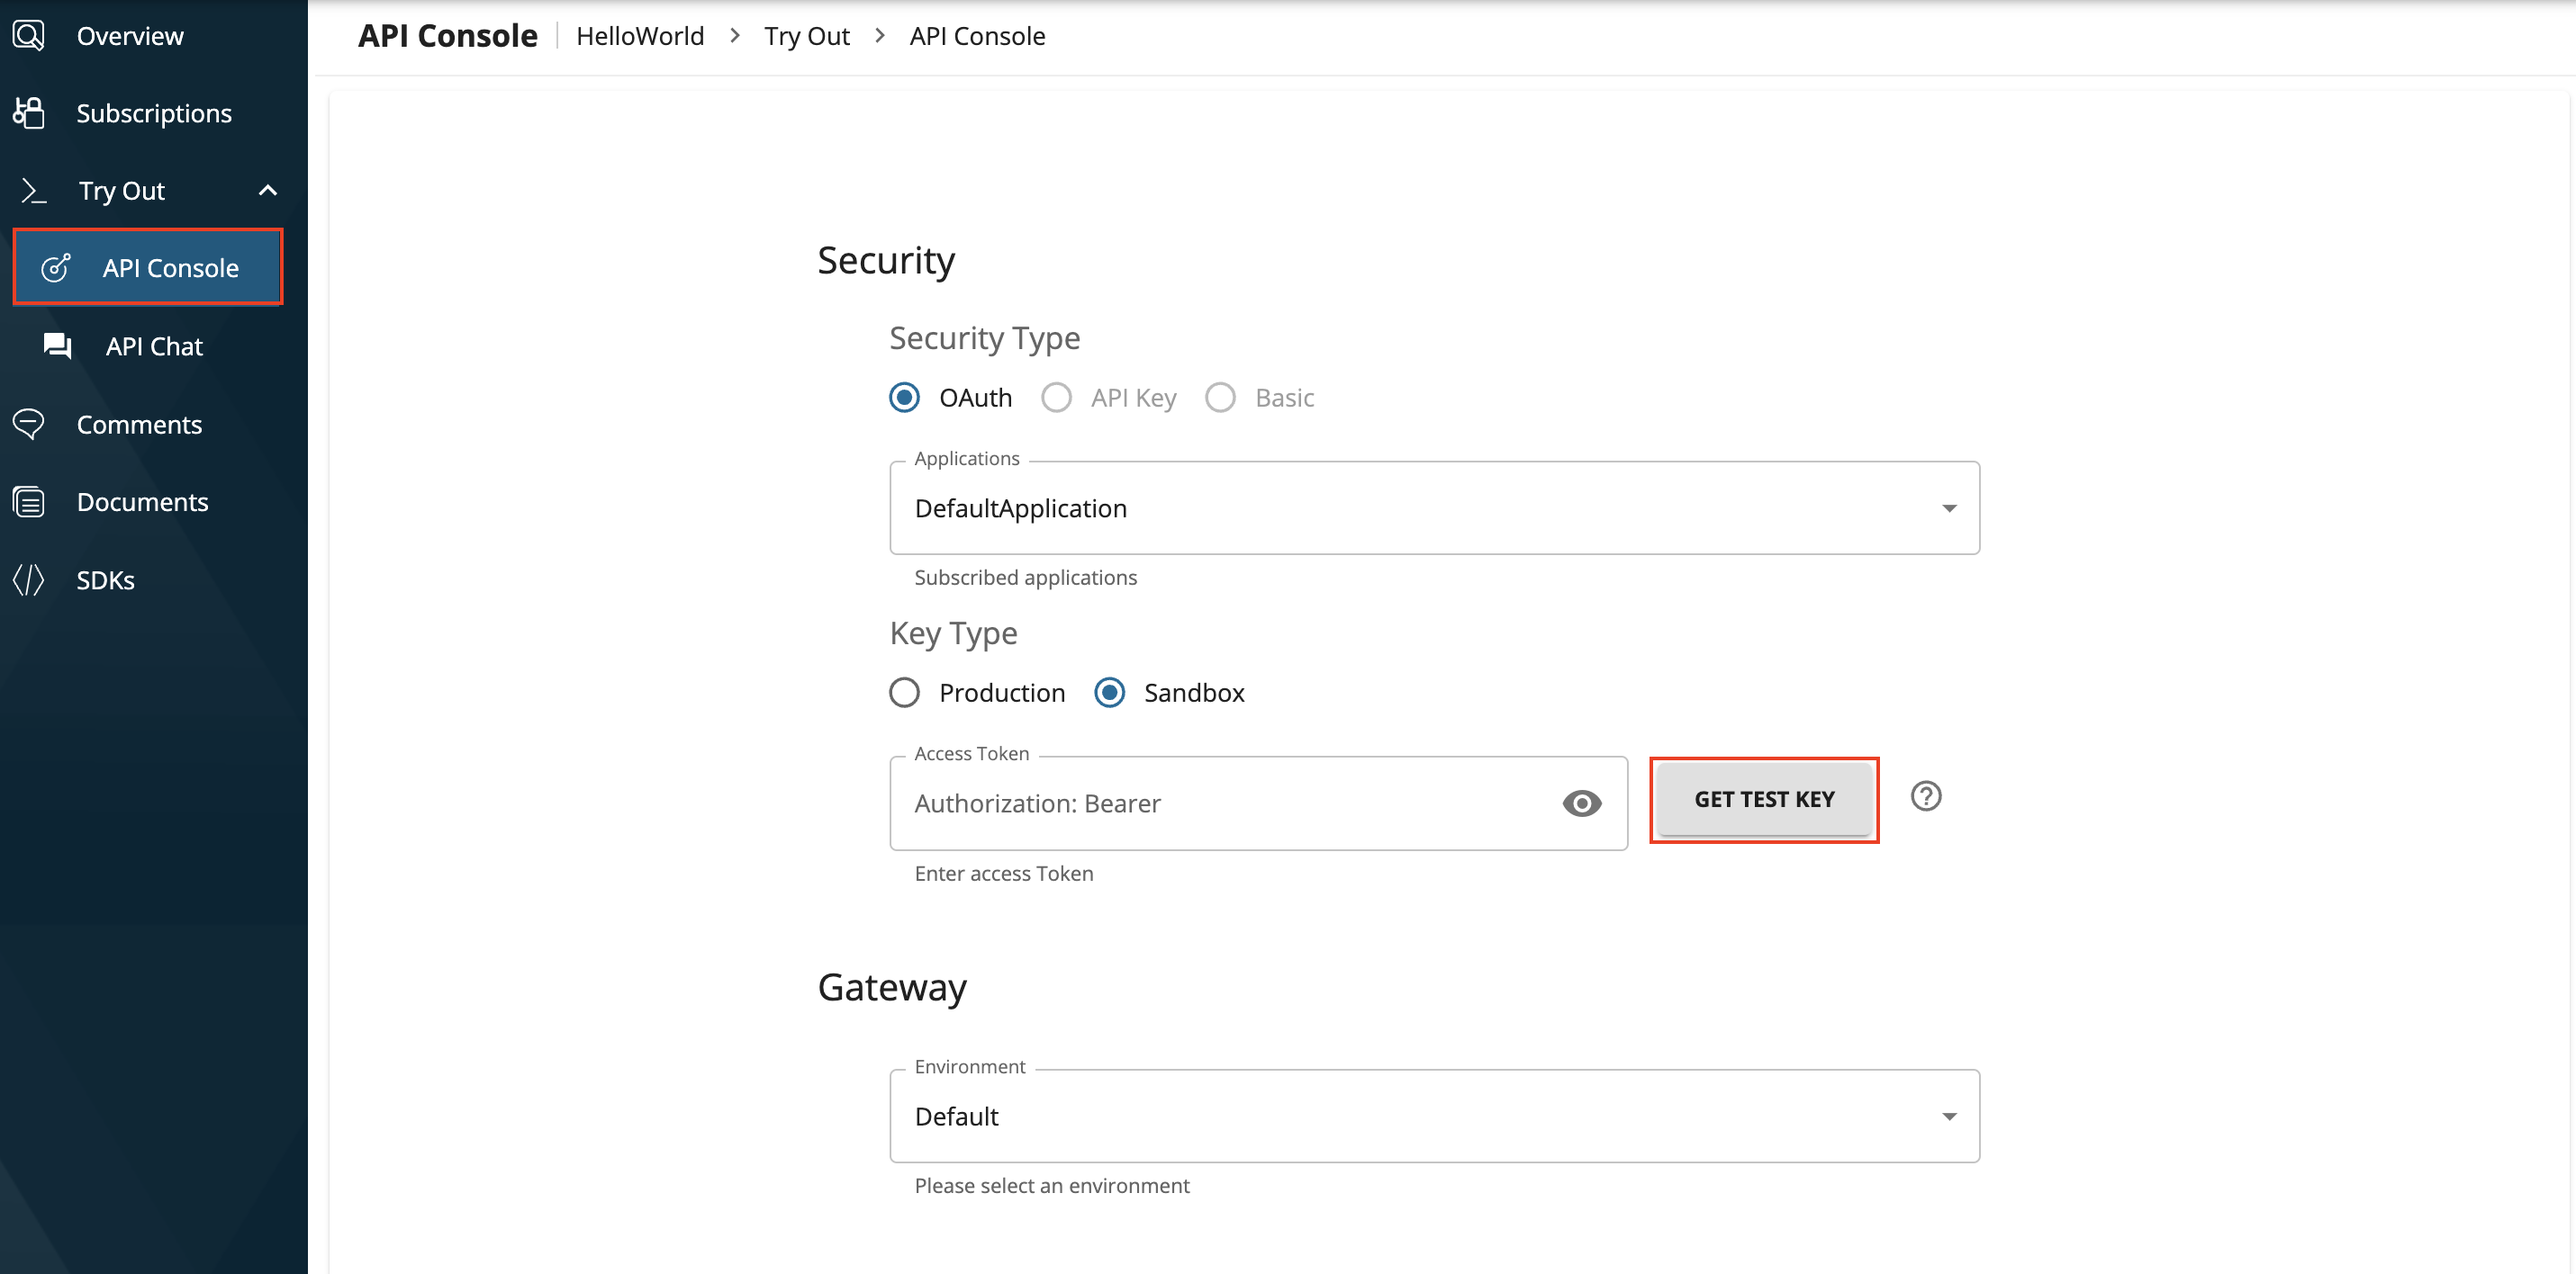
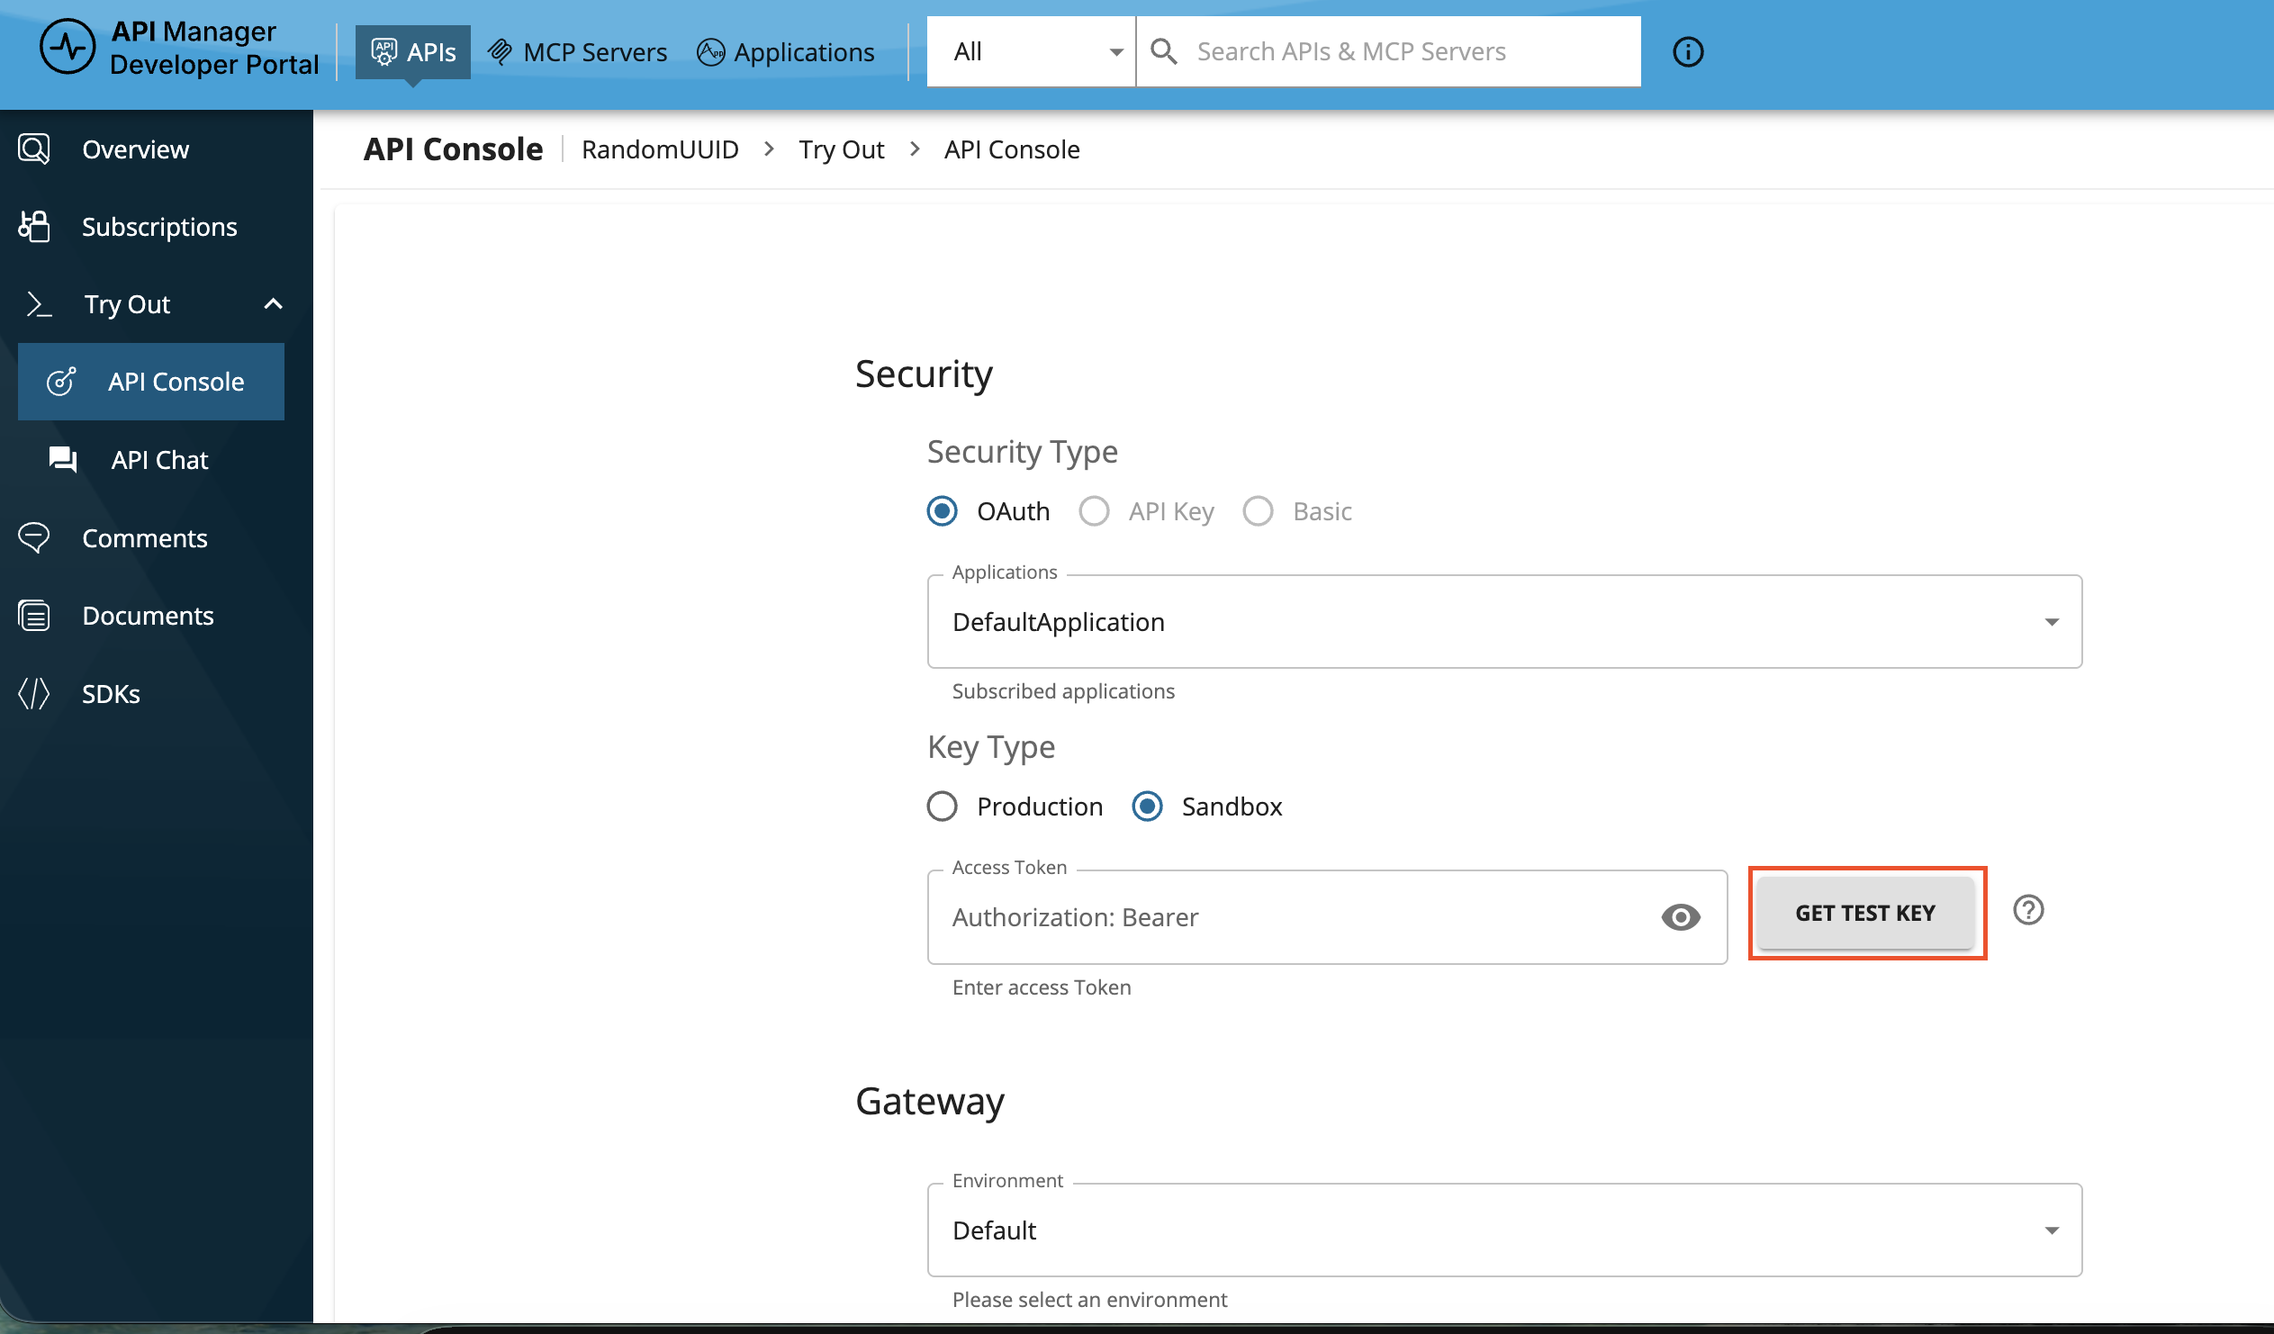
Fix all inconcistencies in the quick start guide and update all screenshots
(cherry picked from commit 574bdf065e9c4e200741b11e518351bcd2549c62)

diff --git a/en/docs/api-manager/next/get-started/api-manager-quick-start-guide.md b/en/docs/api-manager/next/get-started/api-manager-quick-start-guide.md
@@ -132,13 +132,13 @@ Follow the instructions below to subscribe to the API via the Developer Portal o
 
      [https://localhost:9443/devportal](https://localhost:9443/devportal)
     
-     The published `HelloWorld` API is listed in the Developer Portal as shown below.
+     The published `RandomUUID` API is listed in the Developer Portal as shown below.
 
      [![Developer Portal home page](../assets/img/get_started/dev-portal-landing-page.png)](../assets/img/get_started/dev-portal-landing-page.png)
 
 2. Click **Sign-In** and enter **`admin/admin`** as your credentials to sign in to the Developer Portal.
 
-3. Once you click on the HelloWorld API, you will be redirected to  the API overview page. Then, go ahead and click on the **TRY OUT** button.
+3. Once you click on the RandomUUID API, you will be redirected to  the API overview page. Then, go ahead and click on the **TRY OUT** button.
 
      [![API try out](../assets/img/get_started/try-out.png)](../assets/img/get_started/try-out.png)
 
@@ -162,6 +162,10 @@ Follow the instructions below to invoke the created API.
 
      [![Test API](../assets/img/get_started/test-api.png)](../assets/img/get_started/test-api.png)
 
+     This will prompt you for the customer secret created at the startup to generate the access token.
+
+     [![Test API](../assets/img/get_started/enter-customer-secret.png)](../assets/img/get_started/enter-customer-secret.png)
+
 2. Click on the `GET` resource of the API to expand the resource and Click **Try It Out**.
    
      [![GET resource](../assets/img/get_started/expanded-get-resource.png)](../assets/img/get_started/expanded-get-resource.png)
@@ -170,7 +174,7 @@ Follow the instructions below to invoke the created API.
 
      [![GET resource](../assets/img/get_started/try-api.png)](../assets/img/get_started/try-api.png)
 
-     You should see the `{"hello" : "world"}` response from the API. 
+     You should see the `{"uuid": "<random-generated-uuid>"}` response from the API.
 
      [![Successful response](../assets/img/get_started/try-it-success.png)](../assets/img/get_started/try-it-success.png)
 
